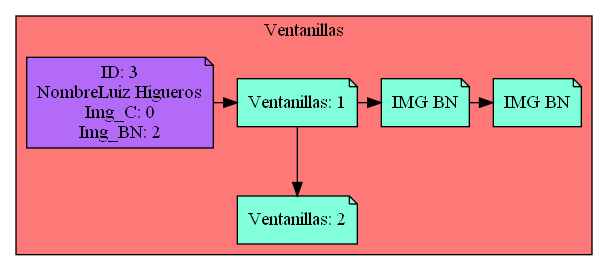
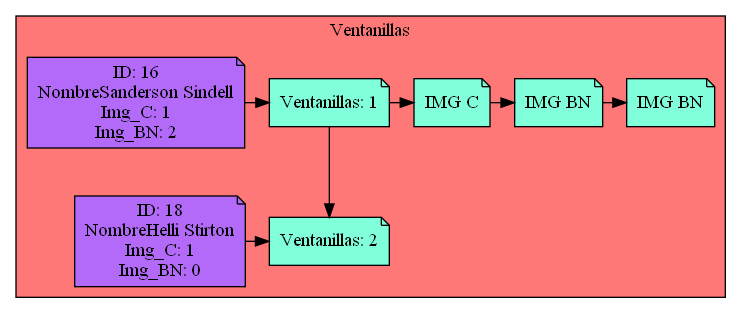
grafo de clientes en espera completo

diff --git a/src/lists/Circular_Doble_espera.java b/src/lists/Circular_Doble_espera.java
@@ -2,6 +2,7 @@ package lists;
 
 import java.io.FileWriter;
 import java.io.PrintWriter;
+import java.util.Iterator;
 
 import object.client;
 
@@ -168,19 +169,55 @@ public class Circular_Doble_espera {
 		Nodo_Doble_waiting_clients aux = this.primero;
 		
 		do {
-			String hashClient ="";
-			String infoClient ="";
-			String pilaImg ="";
-			String pilarank ="";
+		
+			String hashBN ="";
+			String hashColor ="";
+			Boolean Entro = false;
 			
-			String info ="ID: " + aux.client.id + "\nNombre" + aux.client.name + "\nImg_C: " + aux.client.img_bwTotal + "\nImg_BN: " + aux.client.img_bwTotal;
+			String info ="ID: " + aux.client.id + "\nNombre" + aux.client.name + "\nImg_C: " + aux.client.img_colorTotal + "\nImg_BN: " + aux.client.img_bwTotal;
 			//String info ="Ventanillas: " + aux.noVentanilla ;
 			nombresNodos += "Nodo" + aux.hashCode() + "[label=\"" + info + "\",fillcolor=\"#81FFDA\"]\n";
 			if (aux.next != null) {
 				conexiones += String.format("\nNodo%d -> Nodo%d\n", aux.hashCode(), aux.next.hashCode());
 				
 				}
-
+			if(aux.client.img_bw >0) {
+				Entro = true;
+				String connect = aux.hashCode()  + "0000" + 1;
+				conexiones+= "Nodo" +  aux.hashCode() + "->Nodo" + connect;
+				//conexiones += String.format("\nNodo%d -> Nodo%d\n", aux.hashCode(),connect );
+				for (int i = 1; i <= aux.client.img_bw; i++) {
+					conexiones+="\nNodo" + aux.hashCode() + "0000" + i + "[label=\"IMG BN\",fillcolor=\"#C388FC\"]";
+					hashBN+= ",Nodo" + aux.hashCode() + "0000" + i ;
+					if(i+1 <= aux.client.img_bw) {
+						String connected = aux.hashCode()  + "0000" + (i +1);
+						conexiones+= "Nodo" +  aux.hashCode() + "0000" + i+ "->Nodo" + connected;
+						
+					}
+				}
+			}
+			if(aux.client.img_color >0) {
+				if(Entro) {
+					String connect = aux.hashCode()  + "1111" + 1;
+					conexiones+= "\nNodo" + aux.hashCode() +"0000" + aux.client.img_bw + "->Nodo" + connect;
+				}else {
+					String connect = aux.hashCode()  + "1111" + 1;
+					conexiones+= "Nodo" +  aux.hashCode() + "->Nodo" + connect;
+				}
+				
+				for (int i = 1; i <= aux.client.img_color; i++) {
+					conexiones+="\nNodo" + aux.hashCode() + "1111" + i + "[label=\"IMG C\",fillcolor=\"#C388FC\"]";
+					hashColor+= ",Nodo" + aux.hashCode() + "1111" + i ;
+					if(i+1 <= aux.client.img_color) {
+						String connected = aux.hashCode()  + "1111" + (i +1);
+						conexiones+= "Nodo" +  aux.hashCode() + "1111" + i+ "->Nodo" + connected;
+						
+					}
+				}
+			}
+			
+			conexiones += "\n{rank=same;Nodo" +  aux.hashCode() + hashBN + hashColor +"}";
+			
 			aux = aux.next;
 		} while (aux != this.primero);
 		

diff --git a/src/functionalities/general.java b/src/functionalities/general.java
@@ -33,7 +33,7 @@ public class general {
 	public void Realizar_Paso() {
 		try {
 			System.out.println("\n================= Paso: " + Pasos + " =================");
-			//Random_a_cola();
+			Random_a_cola();
 			Waiting_clients.exit_of_system();
 			printing();
 			window_magnament();
